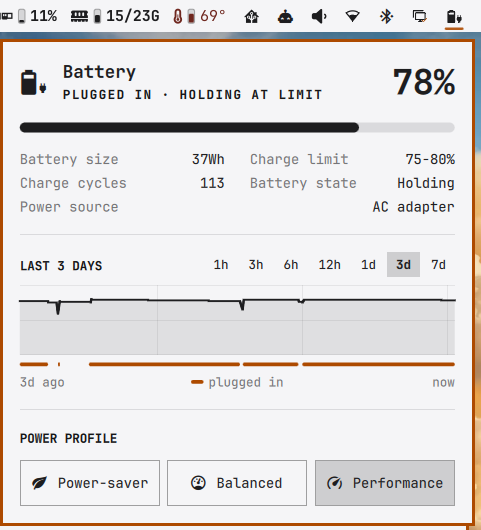
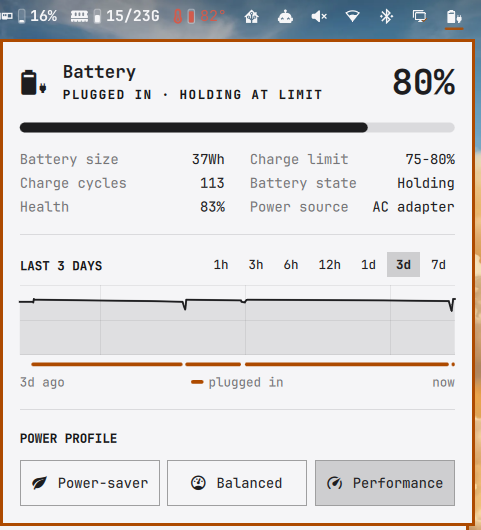
Preview image with the Health row

diff --git a/CLAUDE.md b/CLAUDE.md
@@ -69,7 +69,7 @@ out of it.
   `capacity` = energy-full / energy-full-design) under Charge cycles; Power
   source moved from a full-width row into the right column beside it.
   `healthPercentage` is normalised if it comes as 0–1. Verified: 83% shown
-  for UPower's 82.7%. `preview.png` still shows the old layout.
+  for UPower's 82.7%. `preview.png` redone with it (3-day view).
 
 ## Gotchas
 
